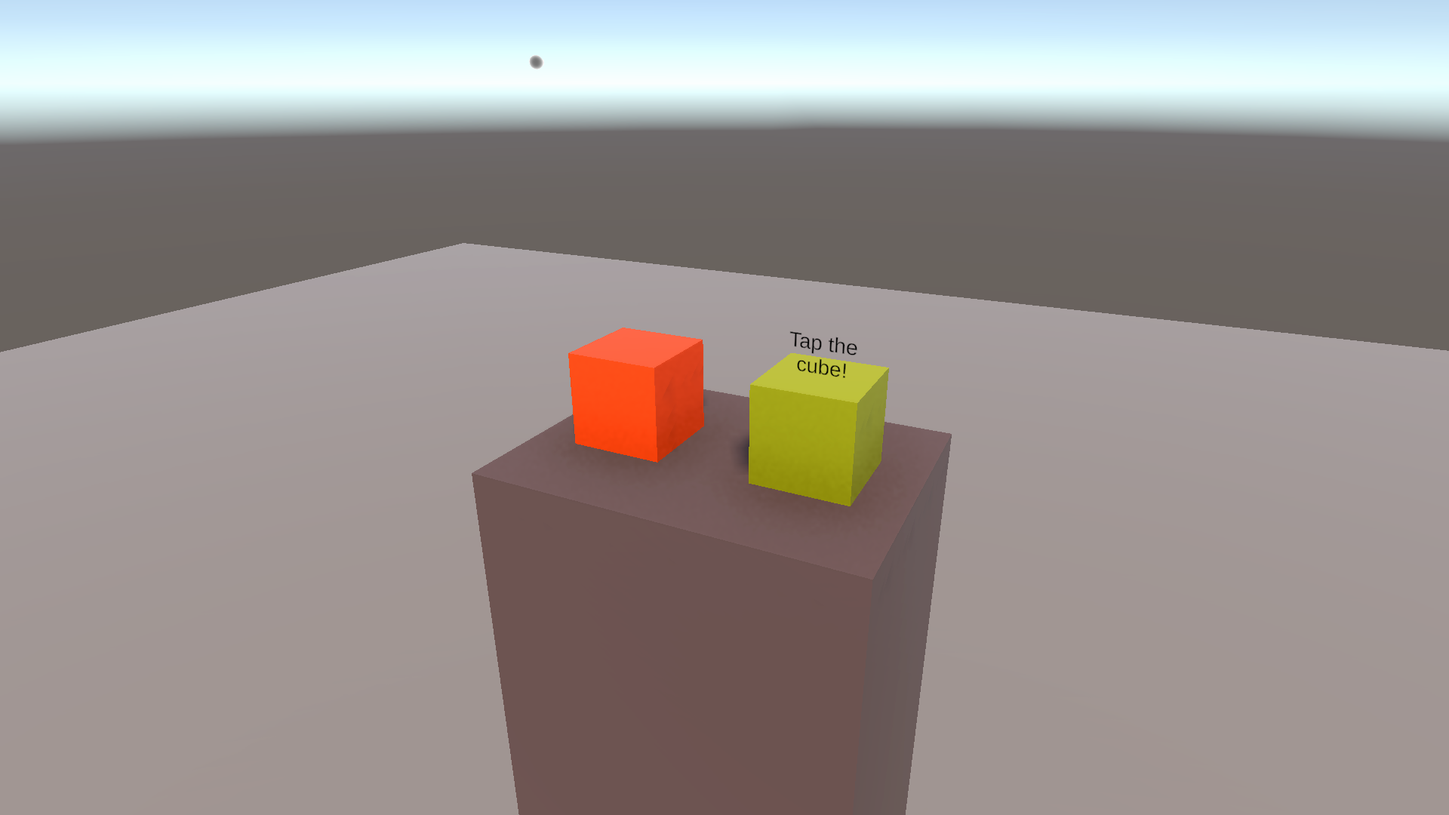
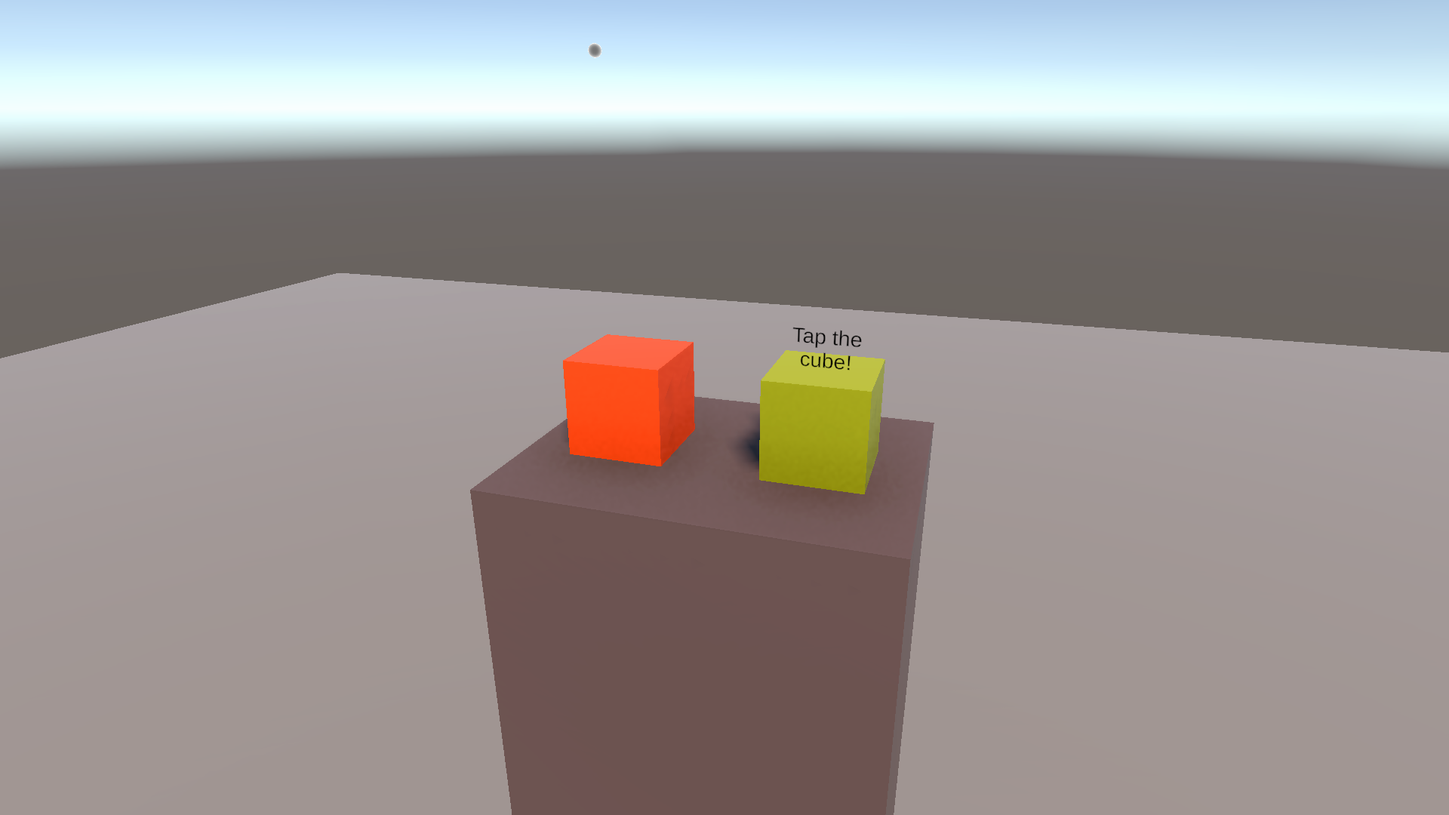
Stuffs Updated

diff --git a/docs/tools/ReadmeCapture.cs b/docs/tools/ReadmeCapture.cs
@@ -45,7 +45,8 @@ public static class ReadmeCapture
                 var a = GameObject.Find("Interactable Cube").transform.position;
                 var b = GameObject.Find("Grabbable Cube").transform.position;
                 var middle = (a+b)*0.5f;
-                Take("cube-lessons.png", middle+new Vector3(0.32f,0.3f,-0.65f), middle);
+                Take("cube-lessons.png", middle+new Vector3(0.22f,0.28f,-0.7f), middle);
+                Take("interactable-cube.png", a+new Vector3(0.2f,0.18f,-0.48f), a);
             }
             else if (stage == 2)
             {

diff --git a/README.md b/README.md
@@ -1,47 +1,36 @@
-# Learn Photon Fusion with a small multiplayer VR game
+# Learn Photon Fusion by building a multiplayer VR game
 
-You know PUN 2 and want to write Fusion scripts yourself. Start with this story: **connect → meet in a lobby → enter Game together → see, hear, and interact with each other**. First understand why each step exists, then follow its script and Unity setup.
+This tutorial introduces multiplayer networking through a small Unity VR project. Two players meet in a lobby, enter a game together, see each other’s avatars, talk, and interact with shared cubes. Basic Unity and C# knowledge helps; no previous Photon experience is needed.
 
-This project follows the local-player spawning pattern in Photon's [Shared Mode Basics](https://doc.photonengine.com/fusion/v2/tutorials/shared-mode-basics/2-scene-and-player), extended with XR, a waiting room, and two cube lessons.
+**Photon Fusion** shares game state, **Photon Voice** carries speech, and **XR Interaction Toolkit (XRI)** handles VR tracking and interactions. Each section explains the idea, the Unity setup, and the code behind it.
 
-![The Game scene and its interaction table](docs/images/game-overview.png)
+![The Game scene](docs/images/game-overview.png)
 
-*Scene images are offline Unity previews, not recordings of a multiplayer test.*
+## 1. Understand what networking shares
 
-## 1. The story before the scripts
+Each device runs its **own copy** of the scene and scripts. Networking shares selected information—positions, colors, or actions—so those copies show a consistent world. **Local** means your device; **remote** means another player’s device. A connected device is also called a **client** or **peer**.
 
-Each device runs a **NetworkRunner**, which manages that device's Fusion connection and simulation. `StartGame` in **Shared** mode creates or joins the named session. Our Lobby Scene is a waiting area **inside that session**; it is different from Photon's matchmaking lobby.
+This project uses Fusion’s **Shared mode**. Each player controls their avatar. Fusion calls the permission to update a network object **state authority**. One player also becomes the **Shared master client**, responsible here for the countdown and scene changes. Another player takes over that role if the master leaves. Shared mode does not make that player a server hosting everyone’s simulation.
 
-Shared mode distributes **state authority** across players: you control your avatar, and another player controls theirs. The **Shared master client** also manages scene changes and our countdown. It is not a player-hosted server. In Host mode, a player-host owns the authoritative simulation; in Server mode, a dedicated server does. [Runner](https://doc.photonengine.com/fusion/v2/manual/network-runner) · [Shared master](https://doc.photonengine.com/fusion/v2/manual/shared-mode-master-client)
+Our default room holds **two players**. The first waits in Lobby; the second fills the room and starts a **five-second countdown**. Both then enter Game, and admission closes. If one leaves, the remaining player returns to Lobby and the room reopens.
 
-The current game has **two places**. One player waits; the second fills the room, so the countdown immediately shortens to **five seconds**. For the four-player example, change Max Players to `4`: two players start a 30-second countdown, and filling all four places shortens the remaining time to at most five seconds. Falling below two cancels the countdown. At zero, admission closes and everyone loads Game. Game continues with two or more players; the last remaining player returns to Lobby, which reopens for new arrivals.
+The scripts follow Photon’s [Shared Mode Basics](https://doc.photonengine.com/fusion/v2/tutorials/shared-mode-basics/2-scene-and-player), extended with VR and a waiting room.
 
-Room capacity is our gameplay choice. **CCU means concurrent users across the application, not players per room.** Photon currently offers a free 100-CCU Fusion games plan with eligibility conditions; check [current pricing](https://www.photonengine.com/Fusion/Pricing). The script's 20-player cap is a tutorial setting, not a claim about the free tier.
+## 2. Connect to a room
 
-## 2. Install, configure, and connect
+**The idea:** a `NetworkRunner` manages this device’s connection and network updates. Calling `StartGame` in Shared mode creates or joins the named room. Our Lobby Scene is a waiting area inside that room, separate from Photon’s matchmaking lobby used to discover sessions.
 
-The repository uses Unity **6000.3.23f1**, Fusion **2.1.3**, Voice **2.63.0**, and XRI **3.3.2**. Fusion is included; Package Manager resolves Voice. In a fresh project, install Fusion 2 and its Voice integration, plus XRI, its Starter Assets, Input System, and OpenXR. Test local XR tracking first.
+**Unity setup:** this repository uses Unity **6000.3.23f1**, Fusion **2.1.3**, Voice **2.63.0**, and XRI **3.3.2**. Fusion is included; Package Manager resolves the other packages.
 
-1. Create a **Fusion** application in the [Photon Dashboard](https://dashboard.photonengine.com/). Enter its ID in **App Id Fusion** on `Assets/Photon/Fusion/Resources/PhotonAppSettings.asset`.
-2. For speech, create a separate **Voice** application and fill **App Id Voice**. An empty Voice ID disables voice startup here.
-3. Keep **Lobby Scene** at build index `0` and **Game Scene** at `1` in **Build Profiles → Scene List**. Start through Lobby.
-4. Put an **XR Origin (XR Rig)** in each scene, with enabled input actions and the target platform's OpenXR configuration. Keep the hierarchy names below: the avatar finds these transforms at runtime.
+1. Open the project in Unity Hub and allow importing to finish.
+2. Create a **Fusion** application in the [Photon Dashboard](https://dashboard.photonengine.com/). Put its ID into **App Id Fusion** on `Assets/Photon/Fusion/Resources/PhotonAppSettings.asset`. For speech, create a separate **Voice** application and fill **App Id Voice**.
+3. Open `Assets/Scenes/Lobby Scene.unity`. In **Build Profiles → Scene List**, keep Lobby at index `0` and Game at `1`. These numbers identify the scenes to load.
+4. On **Fusion Network Manager**, use `NetworkRunner`, `NetworkEvents`, `NetworkSceneManagerDefault`, `FusionNetworkManager`, and `FusionPlayerSpawner`. Assign the Network Player prefab. The supplied scene already has these assignments.
 
-```text
-XR Origin (XR Rig)/Camera Offset/
-    Main Camera
-    Left Controller
-    Right Controller
-```
-
-On **Fusion Network Manager**, use `NetworkRunner`, `NetworkEvents`, `NetworkSceneManagerDefault`, `FusionNetworkManager`, and `FusionPlayerSpawner`. Assign the Network Player prefab. On the waiting-room panel, `FusionLobbyUI` holds the three TMP labels and lobby camera/canvas references. The supplied scene has these assignments and enables the count and timer labels.
-
-Set **Max Players = 2**, **Minimum Players = 2**, **Waiting Delay = 30**, **Full Room Delay = 5**, and **Game Scene Build Index = 1**. Clients must share the App ID, app version, region, and session name (`Room 1`). Change capacity before creating a fresh session. Use the same minimum, timer delays, scene indices, and spawn spacing on every client: these tutorial configuration values are local Inspector settings, not extra networked properties.
-
-Read [FusionNetworkManager.cs](Assets/Fusion%20and%20Essential%20Spawned%20Player%20Stuffs/Scripts/FusionNetworkManager.cs):
+Read [FusionNetworkManager.cs](Assets/Fusion%20and%20Essential%20Spawned%20Player%20Stuffs/Scripts/FusionNetworkManager.cs). Its connection call follows this pattern:
 
 ```csharp
-var result = await _runner.StartGame(new StartGameArgs {
+var result = await runner.StartGame(new StartGameArgs {
     GameMode = GameMode.Shared,
     SessionName = SessionName,
     PlayerCount = MaxPlayers,
@@ -50,113 +39,156 @@ var result = await _runner.StartGame(new StartGameArgs {
 });
 ```
 
-This shortened excerpt shows the idea; the full script validates settings and checks `result.Ok`. **`async`/`await` lets Unity continue running while connection work finishes.** `OnConnectedToServer` reports the transport connection; successful `StartGame` confirms startup. `NetworkEvents` listeners directly handle connection status, joins, departures, failures, disconnects, and shutdown. A small custom retry helper waits five seconds and reloads Lobby with a **new runner** because a stopped runner cannot be reused. It retries joining; it does not restore a disconnected player's old identity or bypass a closed room.
+`SessionName` identifies the room; `PlayerCount` sets its capacity. This code runs inside an **`async` method**: `await` lets Unity keep running while the connection completes. `result.Ok` tells us whether startup succeeded.
 
-## 3. Wait together, then change scenes together
+**Callbacks** are methods called when an event happens. The manager listens directly to Fusion’s events:
 
-Add a scene object called **Fusion Lobby State**, with `NetworkObject` and [FusionLobbyState.cs](Assets/Fusion%20and%20Essential%20Spawned%20Player%20Stuffs/Scripts/FusionLobbyState.cs). The script makes it a **Master Client Object** and keeps it alive if its authority leaves. Only its state authority writes the spawn-slot table and `TickTimer`; Fusion replicates those two properties to everyone. `IPlayerJoined`, `IPlayerLeft`, and `IStateAuthorityChanged` call one small `RefreshSlots` helper on membership or authority changes, instead of rebuilding the slots every tick. `Spawned` also initializes slots for players already present.
+```csharp
+var events = GetComponent<NetworkEvents>();
+events.OnConnectedToServer.AddListener(r => SetStatus("Connected. Joining room..."));
+events.OnShutdown.AddListener((r, reason) => Reconnect($"Runner stopped: {reason}."));
+```
 
-![Shared countdown rules from the source](docs/images/code-countdown.png)
+The full script also handles joins, departures, and connection failures. A small retry helper waits five seconds and reloads Lobby with a **new runner**: a stopped runner cannot be reused. Retrying joins again; it does not restore the old player identity or bypass a closed room.
 
-`FixedUpdateNetwork()` counts `Runner.ActivePlayers` and applies the rules from step 1. `TickTimer` shares an expiry tick, so every client displays the same deadline. The scene authority closes `SessionInfo.IsOpen`, hides the session, and uses **`Runner.LoadScene`**, with `NetworkSceneManagerDefault`, to load Game for everyone.
+## 3. Give everyone the same countdown
 
-For the return trip, read `PlayerLeft → TryReturnToLobby` in [FusionPlayerSpawner.cs](Assets/Fusion%20and%20Essential%20Spawned%20Player%20Stuffs/Scripts/FusionPlayerSpawner.cs). If only one player remains, the scene authority loads Lobby. `LobbyReady` reopens admission after the lobby state spawns. A small `Update` check covers departures during loading and master transfer that finishes after `PlayerLeft`; a departure callback alone can miss those cases. These helpers express our game rules—Fusion does not supply a built-in “return when one player remains” event.
+**The idea:** one authority decides when to start; the other devices receive its countdown. Otherwise, separate local timers could send players into Game at different times.
 
-The persistent manager keeps the connection across scenes and removes the duplicate manager when Lobby returns. The new scene’s `FusionLobbyUI` reads the surviving manager directly; there is no UI-reference copying. Network events report changes, but the countdown still needs `FixedUpdateNetwork` to notice its deadline.
+Add **Fusion Lobby State** with `NetworkObject` and [FusionLobbyState.cs](Assets/Fusion%20and%20Essential%20Spawned%20Player%20Stuffs/Scripts/FusionLobbyState.cs). A `NetworkObject` gives an object a network identity. The script makes this object follow the Shared master when that role changes.
 
-## 4. Give each player an avatar and a recognizable color
+```csharp
+[Networked] public TickTimer Countdown { get; set; }
+```
 
-A **NetworkObject** gives an object a network identity; it does not automatically synchronize every component. On the **Network Player** prefab, configure:
+`[Networked]` shares a property’s current value. `TickTimer` stores the countdown’s deadline; each device calculates the remaining time. Only the object’s state authority writes it.
 
-| Component or setting | Purpose |
+Follow the script in this order:
+
+1. `Spawned()` prepares the object when Fusion creates its network copy.
+2. `PlayerJoined`, `PlayerLeft`, and `StateAuthorityChanged` update the starting-position slots through `RefreshSlots`.
+3. `FixedUpdateNetwork()` checks player count and timer expiry on Fusion’s simulation ticks—not Unity’s `FixedUpdate` frames.
+4. At expiry, the scene authority closes `SessionInfo.IsOpen` and calls `Runner.LoadScene(...)`. `NetworkSceneManagerDefault` coordinates loading for everyone.
+
+Keep **Max Players = 2**, **Minimum Players = 2**, **Waiting Delay = 30**, and **Full Room Delay = 5**. For the **four-player example**, change Max Players to `4` before creating a fresh room: two players start 30 seconds; filling the room shortens the remaining time to at most five seconds. Falling below two cancels it.
+
+For the return trip, [FusionPlayerSpawner.cs](Assets/Fusion%20and%20Essential%20Spawned%20Player%20Stuffs/Scripts/FusionPlayerSpawner.cs) handles `PlayerLeft`: if only one remains, the scene authority loads Lobby. A small readiness check also covers departures during loading or master transfer. `LobbyReady` reopens admission. `FusionLobbyUI` displays connection status, player count, and remaining time.
+
+## 4. Spawn an avatar and synchronize its appearance
+
+**The idea:** your local XR rig follows your headset and controllers. A separate network avatar shares those movements with other players. A **prefab** is the reusable template from which Fusion creates that avatar.
+
+Keep an **XR Origin (XR Rig)** in both scenes with working OpenXR/input settings. The avatar script looks for these exact paths:
+
+```text
+XR Origin (XR Rig)/Camera Offset/
+    Main Camera
+    Left Controller
+    Right Controller
+```
+
+Configure the **Network Player** prefab:
+
+| Component or setting | Why it is needed |
 | --- | --- |
-| `NetworkObject` | Enable **Destroy When State Authority Leaves**; disable **Allow State Authority Override** for this personal avatar. |
-| `NetworkTransform` | On the root and independently moving tracked parts; replicates their poses. |
-| `NetworkMecanimAnimator` | On each animated hand; assign that hand's **Animator**, not an animation clip. |
-| `FusionNetworkPlayer` | Assign head, hands, neck/torso, ground contact, hand animators, and grip/trigger actions. |
+| `NetworkObject` | Network identity. Enable **Destroy When State Authority Leaves**; disable **Allow State Authority Override** for a personal avatar. |
+| `NetworkTransform` | Shares position and rotation. Add it to the root and independently moving tracked parts. |
+| `NetworkMecanimAnimator` | Shares hand animation parameters. Assign each hand’s **Animator**, not an animation clip. |
+| `FusionNetworkPlayer` | Assign head, hands, torso/neck, ground contact, hand animators, and grip/trigger actions. |
 
-Register the prefab in Fusion's object table (rebuild it if needed). Fusion's **weaver** generates networking code for `[Networked]` and `[Rpc]`; ensure the gameplay assembly is in Network Project Config's assemblies-to-weave list. [NetworkObject setup](https://doc.photonengine.com/fusion/v2/manual/network-object)
+Check the prefab appears in Fusion’s Network Project Config object table; rebuild the table if needed. This lets other devices find the same prefab.
 
-The spawner follows the Basics tutorial: **spawn only for `Runner.LocalPlayer`**, then call `Runner.SetPlayerObject` so other scripts can find that avatar. Lobby assigns unique slots, 0.7 metres apart. Existing players keep their slots as others join or leave. `SceneLoadStart` despawns the old avatar; after loading, the spawner binds a new avatar to the new scene's XR rig.
+The spawner creates **only our own avatar** on this device:
 
-**What survives the Lobby → Game transition?** The persistent spawner remembers its slot received from networked lobby state; spawn spacing comes from the shared tutorial configuration. The new avatar derives the same torso color from the unchanged `PlayerRef` and publishes it again. Starting positions use the same slot relative to each scene's rig; live movement is synchronized by `NetworkTransform`. We reset to a starting pose, rather than carrying a player's last walked-to world coordinate into a different scene. On a later return to Lobby, slots are assigned afresh.
+```csharp
+var avatar = Runner.Spawn(PlayerPrefab, CameraRig.transform.position, CameraRig.transform.rotation);
+Runner.SetPlayerObject(Runner.LocalPlayer, avatar);
+```
 
-Read [FusionNetworkPlayer.cs](Assets/Fusion%20and%20Essential%20Spawned%20Player%20Stuffs/Scripts/FusionNetworkPlayer.cs):
+`Runner.Spawn` creates a network object; `SetPlayerObject` associates it with our `PlayerRef` (player identifier). Other scripts can then find it with `Runner.GetPlayerObject`. Use `Runner.Despawn` to remove a network object.
+
+In [FusionNetworkPlayer.cs](Assets/Fusion%20and%20Essential%20Spawned%20Player%20Stuffs/Scripts/FusionNetworkPlayer.cs), only `HasStateAuthority` allows this device to copy its headset/controller input into the avatar. Without that check, our input could move local copies of other players’ avatars too.
 
 ```csharp
 [Networked, OnChangedRender(nameof(ApplyPlayerColor))]
 public Color PlayerColor { get; set; }
 ```
 
-`Spawned()` sets the owner's color and finds the local XR rig. `FixedUpdateNetwork()` copies tracking and hand inputs **only when `HasStateAuthority` is true**. Otherwise a client could move its local copies of everyone else's avatars using its own headset. Torso and ground-contact offsets follow the head; the local avatar's renderers are hidden to avoid duplicate visuals.
+This is a C# **property**, using `{ get; set; }`. Fusion shares its value; `OnChangedRender` names the method that updates its visible material. `nameof(ApplyPlayerColor)` supplies the method’s name. We also call `ApplyPlayerColor()` in `Spawned`, because the change callback does not run for initial spawning.
 
-`OnChangedRender` is an **attribute naming a render callback**, not a function to call for synchronization. Fusion replicates `PlayerColor`; `ApplyPlayerColor` draws it. We also call that method in `Spawned` because `OnChangedRender` does not run for initial spawning. [Change detection](https://doc.photonengine.com/fusion/v2/manual/data-transfer/change-detection)
+**Across scenes:** the spawner remembers the network-assigned slot, keeping starting positions spaced 0.7 metres apart. It removes the old avatar and creates another against the new scene’s XR rig. The unchanged player identifier produces the same torso color. Live movement uses `NetworkTransform`; each new scene starts from its assigned position, not the last walked-to coordinate.
 
-## 5. Hear the other players
+## 5. Add voice
 
-On the manager, add `FusionVoiceClient`, `Recorder`, `VoiceLogger`, and `FusionVoiceSetup`. The helper keeps platform permission code out of the connection lesson. Enable **Use Fusion App Settings**, assign the Recorder to **Primary Recorder**, enable **Use Primary Recorder**, and assign a **Speaker Prefab** containing `Speaker` and `AudioSource`. This scene references the Speaker child from the avatar prefab as the template.
+Fusion shares gameplay data; Photon Voice sends audio. On the manager, add `FusionVoiceClient`, `Recorder`, `VoiceLogger`, and `FusionVoiceSetup`.
 
-The **Recorder captures and transmits** your microphone. The **Speaker receives and plays** somebody else's voice; it does not capture speech. This project uses room-wide voice from the persistent manager, not an avatar-bound positional voice setup. `FusionVoiceSetup` joins Voice when configured and records after microphone permission and room readiness. Enable **Transmit Enabled**; check voice detection if quiet speech is suppressed. Configure the platform's microphone usage description where required. [Voice integration](https://doc.photonengine.com/voice/v2/getting-started/voice-for-fusion)
+1. On **Recorder**, select **Microphone** and enable **Transmit Enabled**.
+2. On **FusionVoiceClient**, enable **Use Fusion App Settings** and **Use Primary Recorder**. Drag the Recorder into **Primary Recorder**.
+3. Assign **Speaker Prefab** to an object containing `Speaker` and `AudioSource`. The supplied scene uses the Speaker child from the avatar prefab as its template.
 
-## 6. Grab a cube: transfer state authority
+The **Recorder captures** your speech; the **Speaker plays** another player’s speech. `FusionVoiceSetup` handles microphone permission and recording readiness. This is room-wide voice; attaching speech to an avatar’s mouth requires a positional-voice setup. [Photon Voice setup](https://doc.photonengine.com/voice/v2/getting-started/voice-for-fusion)
 
-![The Game scene's two cube lessons](docs/images/cube-lessons.png)
+## 6. Grab a shared cube: transfer authority
+
+![The two cube examples with their saved materials](docs/images/cube-lessons.png)
+
+**The idea:** the device holding the cube needs permission to update its position. This is an **authority transfer**.
 
 On **Grabbable Cube**, use a collider, `Rigidbody`, `XRGrabInteractable`, `XRGeneralGrabTransformer`, `NetworkObject`, `NetworkTransform`, and [XRGrabNetworkInteractable.cs](Assets/Scripts/XRGrabNetworkInteractable.cs). Enable **Allow State Authority Override** and disable **Destroy When State Authority Leaves**.
 
-XRI's `selectEntered` requests authority **if we do not have it**. XRI moves the held cube, and `NetworkTransform` publishes the authority's pose. `selectExited` releases authority when the last local hand lets go. `StateAuthorityChanged` also releases a delayed grant if the hand has already let go.
+XRI’s `selectEntered` event means a hand selected the cube. The script requests authority when needed:
 
-**Requesting authority is asynchronous.** One peer has authority at a time; an unheld cube is not owned by every player. With override disabled, a new owner needs the current owner to release first—an approval UI would be custom game logic. Start this lesson with one grabber at a time: simultaneous grabs and authoritative throwing/physics need more handling than this short example provides. [Authority rules](https://doc.photonengine.com/fusion/v2/manual/network-object)
+```csharp
+if (HasStateAuthority) return;
+awaitingAuthority = true;
+Object.RequestStateAuthority();
+```
 
-## 7. Touch a cube: send an RPC, keep particles local
+XRI moves the held cube; `NetworkTransform` sends the authority’s pose to other devices. `selectExited` releases authority after the last local hand lets go.
 
-On **Interactable Cube**, use a collider, `XRSimpleInteractable`, `NetworkObject`, and [XRSimpleNetworkInteractable.cs](Assets/Scripts/XRSimpleNetworkInteractable.cs). Keep it alive when its authority leaves. Assign **Target Renderer**, **Txt Info**, and **Touch Particles**. The prompt canvas uses `CanvasController` to face each client's camera locally.
+**A request takes time; it is not an immediate grant.** `StateAuthorityChanged` handles a grant arriving after a quick release. One peer controls the cube at a time. Start with one grabber at a time: simultaneous grabs and networked throwing need more handling than this teaching example provides.
 
-`hoverEntered` finds our avatar with `Runner.GetPlayerObject(Runner.LocalPlayer)` and reads its **PlayerColor**. It sends that color through `RpcSetColor`; the last local `hoverExited` sends the original cube color. The RPC changes color and hides/restores the prompt on current peers. Hover may come from a ray as well as a nearby hand.
+## 7. Change a cube’s color: send an RPC
 
-![The cube's All-to-All RPC](docs/images/code-rpc.png)
+**The idea:** an **RPC (remote procedure call)** asks selected devices to run a method. A networked property shares “the color is blue”; an RPC sends “perform this color-changing action now.”
 
-**RPC means remote procedure call.** `RpcSources.All` allows any peer with the object to send; `RpcTargets.All` runs it on current peers, including the sender by default. This RPC needs no authority request. Other filters include `StateAuthority`, `InputAuthority`, and `Proxies`; a proxy is a peer without the object's state or input authority, not a proxy server. Names must have an `Rpc` prefix or suffix. [RPC reference](https://doc.photonengine.com/fusion/v2/manual/data-transfer/rpcs)
+On **Interactable Cube**, use a collider, `XRSimpleInteractable`, `NetworkObject`, and [XRSimpleNetworkInteractable.cs](Assets/Scripts/XRSimpleNetworkInteractable.cs). Assign its renderer, text prompt, and particle system. Keep the object alive when its authority leaves.
 
-Particles start/stop only inside local hover handlers. Because the RPC never controls them, other players do not see your effect. The color example deliberately uses **RPC-only visuals**: late joiners do not receive past RPCs, and overlapping players' interactions use the last received event. For persistent, arbitrated interactions, send requests to the authority and store the result in networked state. An optional [CubeColorLesson.cs](docs/examples/CubeColorLesson.cs) demonstrates that pattern; it is not installed on either cube.
+`hoverEntered` finds our avatar using `Runner.GetPlayerObject(Runner.LocalPlayer)`, reads its `PlayerColor`, and calls:
 
-## Fusion vocabulary to keep beside the scripts
+```csharp
+[Rpc(RpcSources.All, RpcTargets.All)]
+private void RpcSetColor(Color color)
+{
+    if (targetRenderer) targetRenderer.material.color = color;
+    if (txtInfo) txtInfo.text = color.Equals(_originalColor) ? "Tap the cube!" : "";
+}
+```
 
-| Name | Meaning here |
+`RpcSources.All` allows any peer with the object to send; `RpcTargets.All` runs the method on current peers. This RPC needs no authority transfer. RPC names must have an `Rpc` prefix or suffix.
+
+Everyone sees the cube match the player’s torso and its prompt disappear. The last local `hoverExited` restores the original color and prompt. Hover can come from a ray as well as a nearby hand.
+
+Particles run only in **local hover handlers**, outside the RPC, so only the hovering player sees them. RPCs do not preserve history: a later arrival will not receive an old color-changing message. Use a networked property when the result must persist. Overlapping hovers in this simple example use the last received event.
+
+## Keep these distinctions in mind
+
+| Name | Purpose |
 | --- | --- |
-| `using Fusion;` | Imports Fusion's C# types. It does not itself enable networking. |
-| `MonoBehaviour` | Ordinary Unity logic; suitable for our connection manager and UI. |
-| `SimulationBehaviour` | Runner-level callbacks without object state; used by the spawner. |
-| `NetworkBehaviour` | Behaviour attached to a NetworkObject; supports networked properties, RPCs, and object callbacks. |
-| `IPlayerJoined` / `IPlayerLeft` | Fusion calls `PlayerJoined` / `PlayerLeft` when session membership changes. |
-| `ISceneLoadStart` / `ISceneLoadDone` | Fusion notifies the spawner of scene loading; these are not new player joins. |
-| `Spawned` / `Despawned` | Object attachment/removal callbacks on local copies, including replicas. |
-| `FixedUpdateNetwork` / `Render` | Simulation-tick logic / visual-frame logic. A network tick is not Unity's `FixedUpdate`. |
-| `Runner.Spawn` / `Runner.Despawn` | Create/remove a network object; avoid ordinary Instantiate/Destroy for active network avatars. |
-| `PlayerRef` / `ActivePlayers` | Session player identifier / current participants. `PlayerRef.None` means no player. |
-| `HasStateAuthority` / `IsSceneAuthority` | May this peer write this object's state / manage synchronized scenes? |
-| Input authority | Identifies the input provider, chiefly for Host/Server input simulation; this Shared XR example reads local input on the state authority. |
-| `[Networked]` / `NetworkArray` | Replicated auto-properties / fixed-capacity replicated collection. Ordinary fields stay local. |
-| `TickTimer` / `SceneRef` | A network-tick deadline / Fusion's scene identifier. |
-| `DontDestroyOnLoad` | Unity persistence, not replication; keeps the manager alive across local scene changes. |
+| `using Fusion;` | Makes Fusion’s C# types available. |
+| `MonoBehaviour` | Ordinary Unity logic: connection setup, UI, and permissions. |
+| `SimulationBehaviour` | Runner/session callbacks, used by the spawner. |
+| `NetworkBehaviour` | Object-level callbacks, networked properties, and RPCs. |
+| `Awake` / `Start` | Unity initialization callbacks. |
+| `Spawned` / `Despawned` | Fusion callbacks when a network copy appears or is removed. |
+| `HasStateAuthority` / `IsSceneAuthority` | Permission to update an object / coordinate scene changes. |
 
-## Try the whole story
+Fusion’s **weaver** generates the synchronization code behind `[Networked]` and `[Rpc]`. Keep `Assembly-CSharp` in Network Project Config’s assemblies-to-weave list for these scripts.
 
-Use separate clients/devices with working XR input. These singleton scripts are not a multi-runner-in-one-scene harness.
+## Test as you learn
 
-| Test | Expected result |
-| --- | --- |
-| Default: A joins; then B | Spaced lobby avatars; `1 / 2` then `2 / 2`; a shared five-second timer. |
-| Four-player example: set Max Players to `4` on all clients before creating the room | A and B start a 30-second timer. |
-| Four-player example: C and D join before expiry | Existing avatars stay put; countdown shortens to at most five seconds. |
-| Count drops below two | Countdown cancels; reaching two restarts it (five seconds at capacity, otherwise 30). |
-| Timer ends | Everyone loads Game with matching torso colors and corresponding spawn slots; new joins are rejected. |
-| Move, speak, grab, hover | Other clients see poses, hear speech, see cube motion and matching color; particles stay local. |
-| Leave, including the master | Game continues with two or more; the last player returns to Lobby and can meet a new arrival. |
-| Interrupt the initial connection | Status reports failure; automatic retries use a fresh runner after the delay. |
+Build and run two clients with working VR input. Start both in Lobby and use matching App IDs, region, app version, session name, timer settings, scene indices, and spacing. Gameplay settings are local Inspector configuration; the countdown and slots are networked state.
 
-If clients wait alone, check App ID, region, version, session name, and whether Game has already closed admission. If avatars fail, check prefab registration, scene indices, and exact XR hierarchy names. For silence, check Voice ID, microphone permission, Recorder/Primary Recorder, Speaker Prefab, and audio output.
+Check one feature at a time: **join → countdown → avatars → voice → grab → hover → leave and return**. If players wait alone, compare their connection settings. If voice is silent, check the Voice ID, permission, Recorder, and Speaker assignments.
 
-The small [FusionLobbyUI.cs](Assets/Fusion%20and%20Essential%20Spawned%20Player%20Stuffs/Scripts/FusionLobbyUI.cs) and [FusionVoiceSetup.cs](Assets/Fusion%20and%20Essential%20Spawned%20Player%20Stuffs/Scripts/FusionVoiceSetup.cs) handle presentation and microphone setup separately from networking.
-
-[HandPresence.cs](Assets/Fusion%20and%20Essential%20Spawned%20Player%20Stuffs/Scripts/HandPresence.cs) handles the local hand/controller visuals. [Image sources and regeneration](docs/images/README.md) explain the screenshots.
+Screenshots are offline Unity scene previews using the saved materials, not multiplayer recordings. See [image sources](docs/images/README.md) for capture details and a [close-up of the interactable cube](docs/images/interactable-cube.png).

diff --git a/docs/images/README.md b/docs/images/README.md
@@ -2,7 +2,7 @@
 
 ## Scene captures
 
-`game-overview.png`, `cube-lessons.png`, and `waiting-room.png` were rendered with Unity **6000.3.23f1** from copies of this repository's **Game Scene** and **Lobby Scene**.
+`game-overview.png`, `cube-lessons.png`, `interactable-cube.png`, and `waiting-room.png` were rendered with Unity **6000.3.23f1** from copies of this repository's **Game Scene** and **Lobby Scene**.
 
 These are **offline scene previews**, not multiplayer gameplay recordings. The capture uses a separate camera for legible framing. It faces the Game scene's existing world-space prompt toward that camera and enables the Lobby's existing player-count and countdown labels, as the setup instructions require. It does not invent connected players, run a countdown, or stage RPC effects. Materials, geometry, and saved text come from the project. No Photon App IDs appear in the images.
 
@@ -14,9 +14,11 @@ To recapture, use a **temporary project copy**, not your active working Editor:
 2. Copy [ReadmeCapture.cs](../tools/ReadmeCapture.cs) into that temporary project's `Assets/Editor` folder.
 3. Start the matching Unity Editor in batch mode with `-projectPath <temporary-project>` and `-executeMethod ReadmeCapture.Capture`. Do not use `-nographics`: the capture needs a graphics device. Do not add `-quit`: the helper waits for rendering, then exits the temporary Editor itself.
 4. Set the environment variable `FUSION_DOCS_OUTPUT` to the output directory you want. Without it, the helper writes to `docs/images` under its working directory.
-5. Inspect all three images before replacing the README assets. Initial import and shader compilation can take several minutes.
+5. Inspect all four images before replacing the README assets. Initial import and shader compilation can take several minutes.
 
-The retained `waiting-room.png` shows the two-player default. The main README uses the unchanged Game previews and freshly regenerated code images.
+The scene captures were refreshed from the saved project on 2026-09-27. `waiting-room.png` shows the two-player default. The interactable cube uses [its saved material](../../Assets/Materials/Interactable%20Cube%20Material.mat), including its yellow-green base color and the scene’s lighting; the images are not recolored afterward.
+
+If package downloads prevent capture, use the already-resolved packages in a disposable copy: copy `Library/PackageCache` into a `LocalPackages` directory **outside Library**, then point that copy’s package dependencies to those local folders. Do not edit the working project’s manifest. Do not use `-noUpm`, which prevents Unity from registering the packages needed by the scene and capture script.
 
 ## Script images
 
